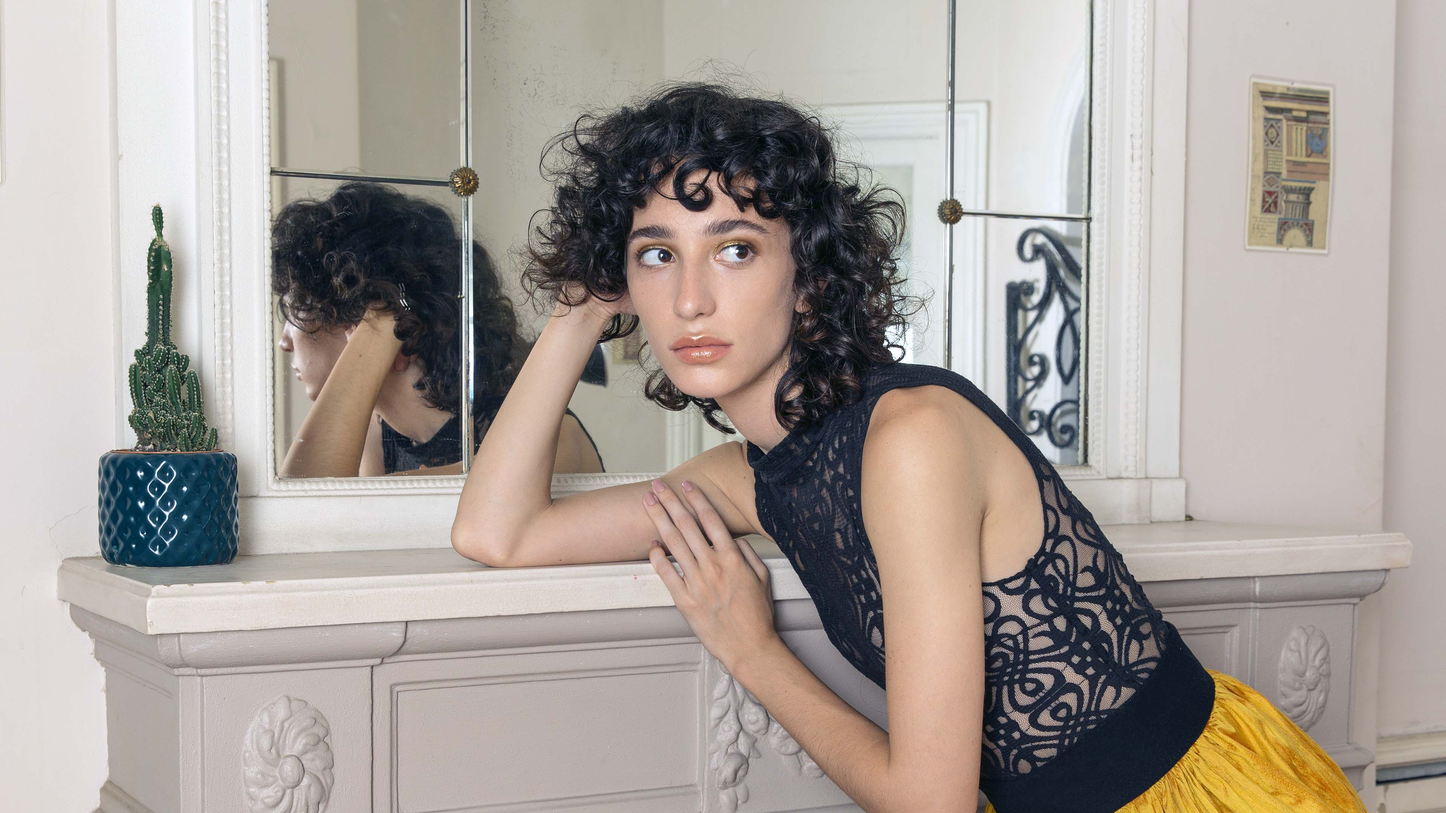
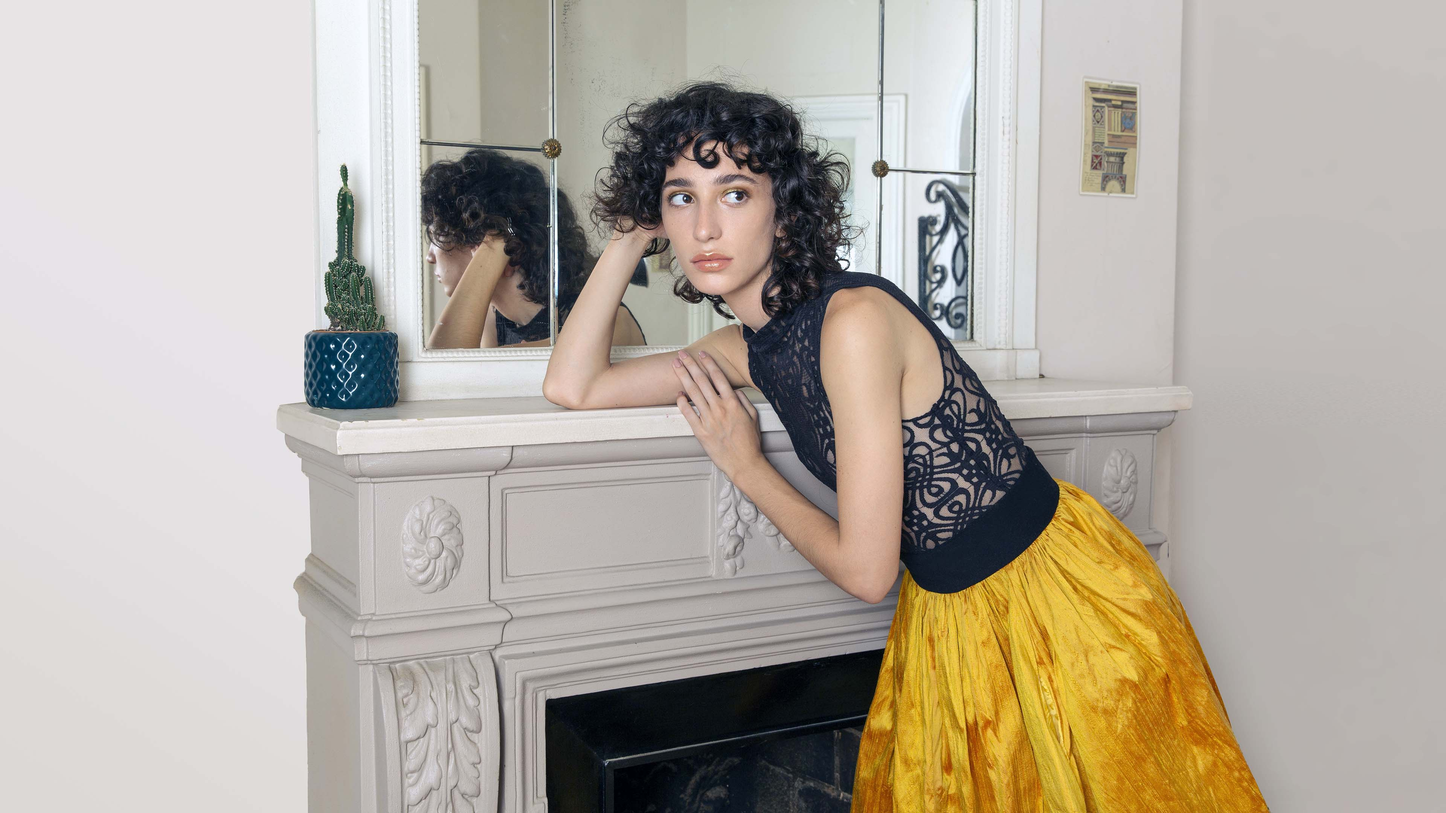
new image

diff --git a/index.html b/index.html
@@ -11,11 +11,7 @@
     <div class="main-nav-title dark-text">
       PAMALAM
     </div>
-
     <div class="hero">
-      <div class="hero-callout">
-        THE NEW<br><b>COLLECTION</b>
-      </div>
       <div class="down-arrow">
         <svg xmlns="http://www.w3.org/2000/svg" xmlns:xlink="http://www.w3.org/1999/xlink" viewBox="0 0 50 50" version="1.1">
           <g id="surface1">
